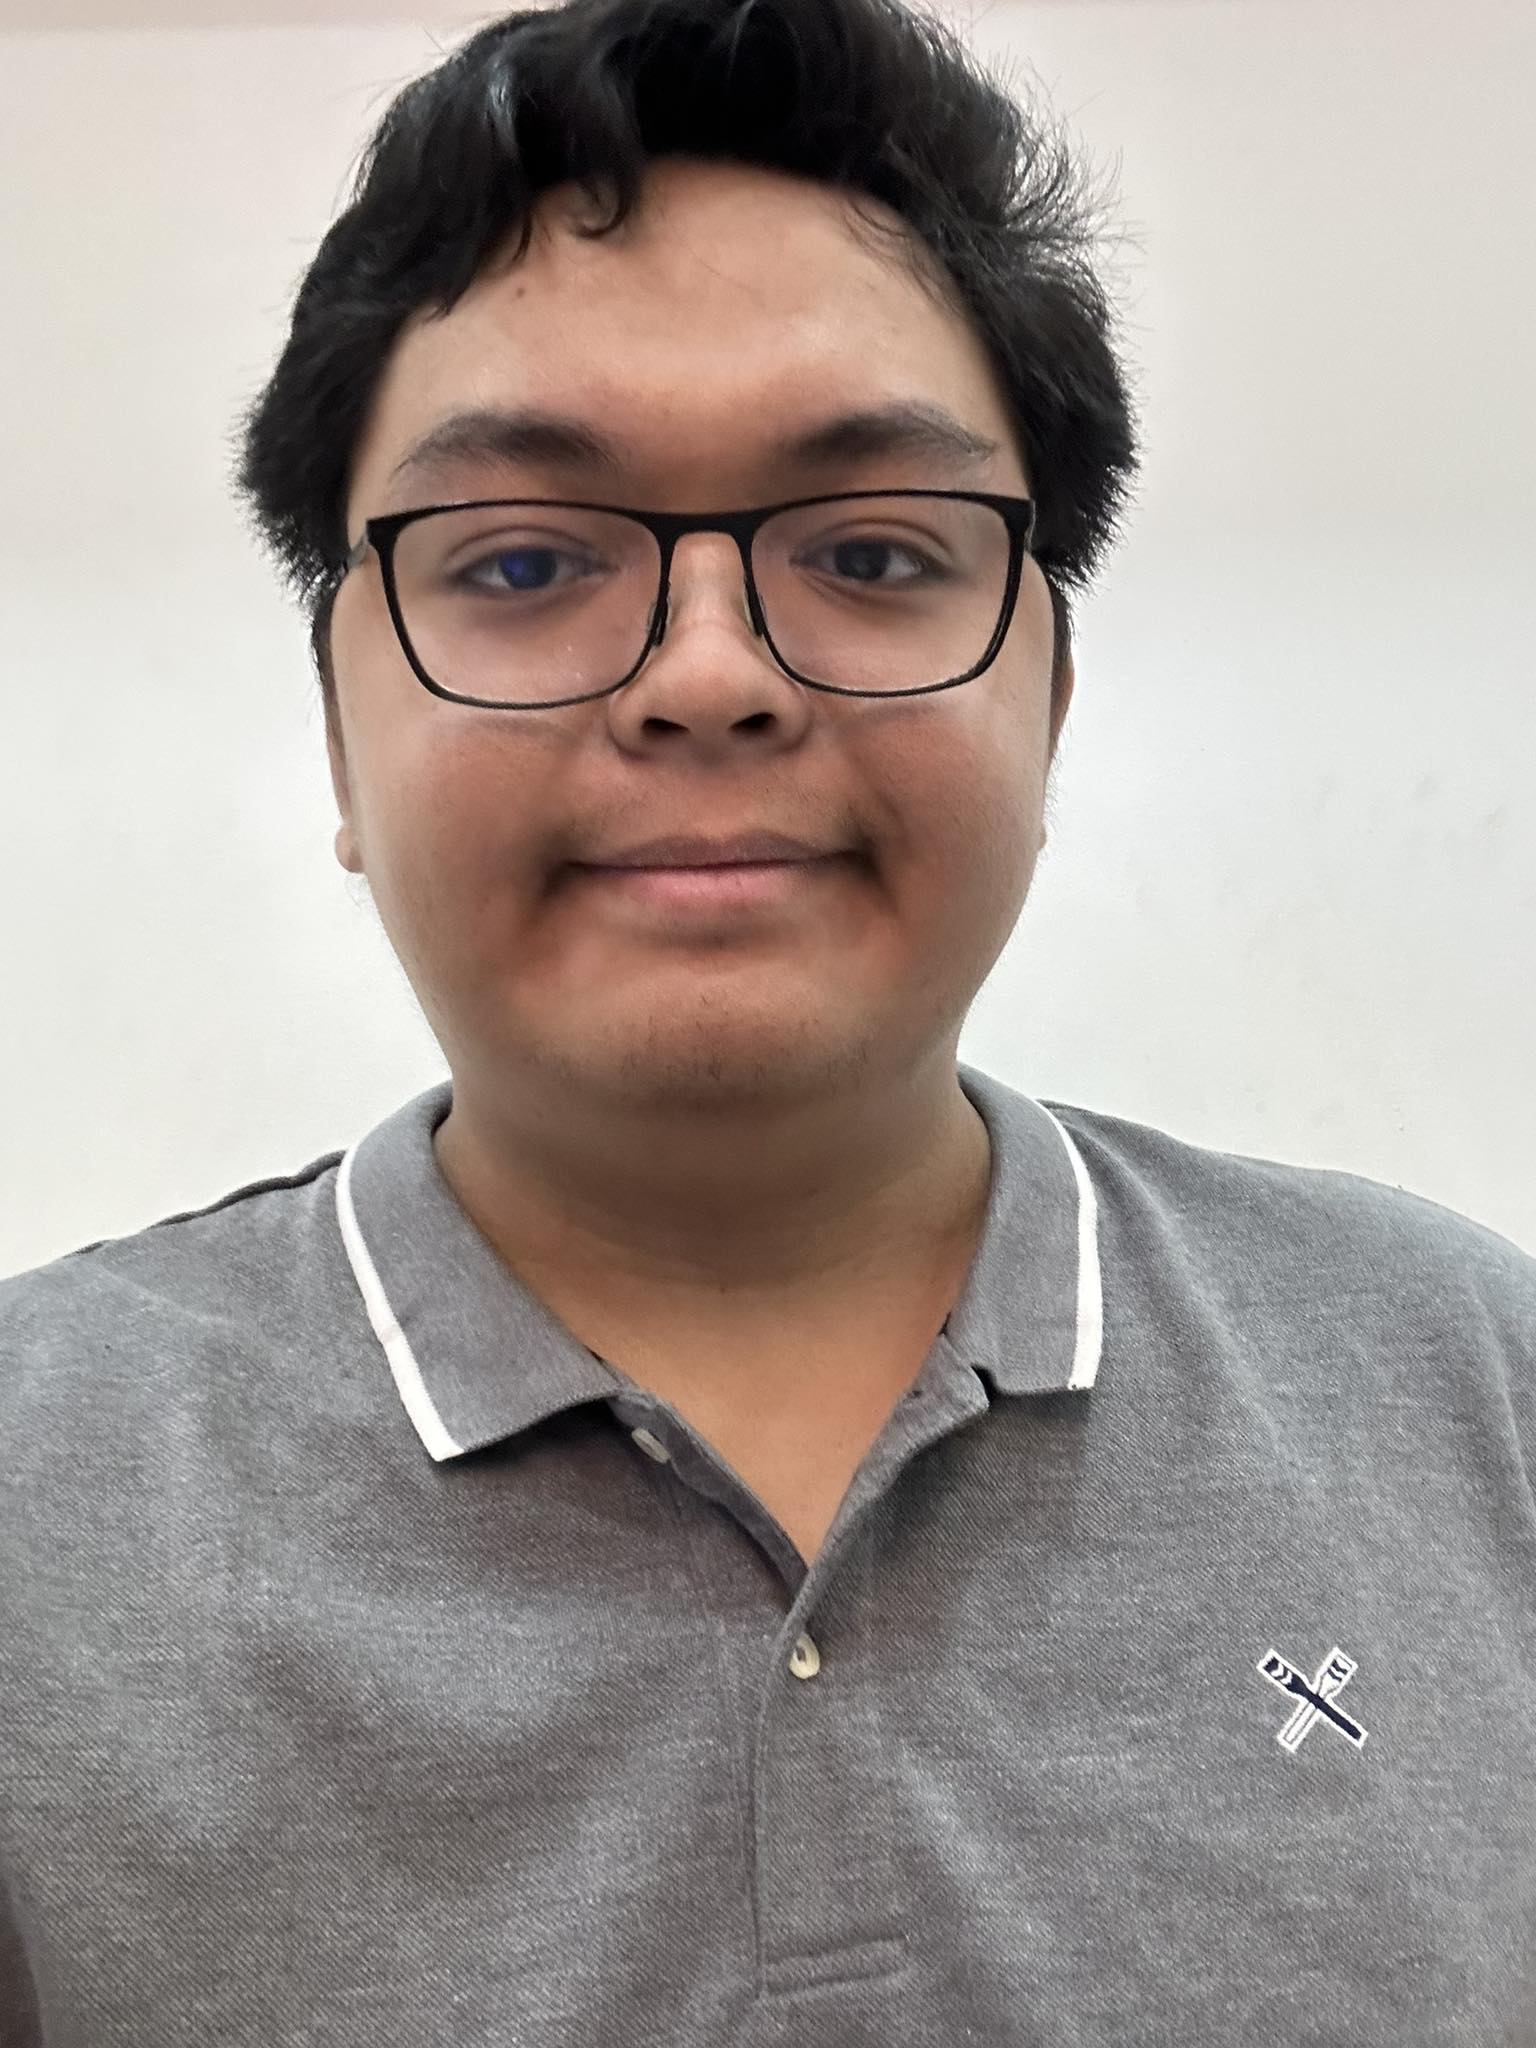
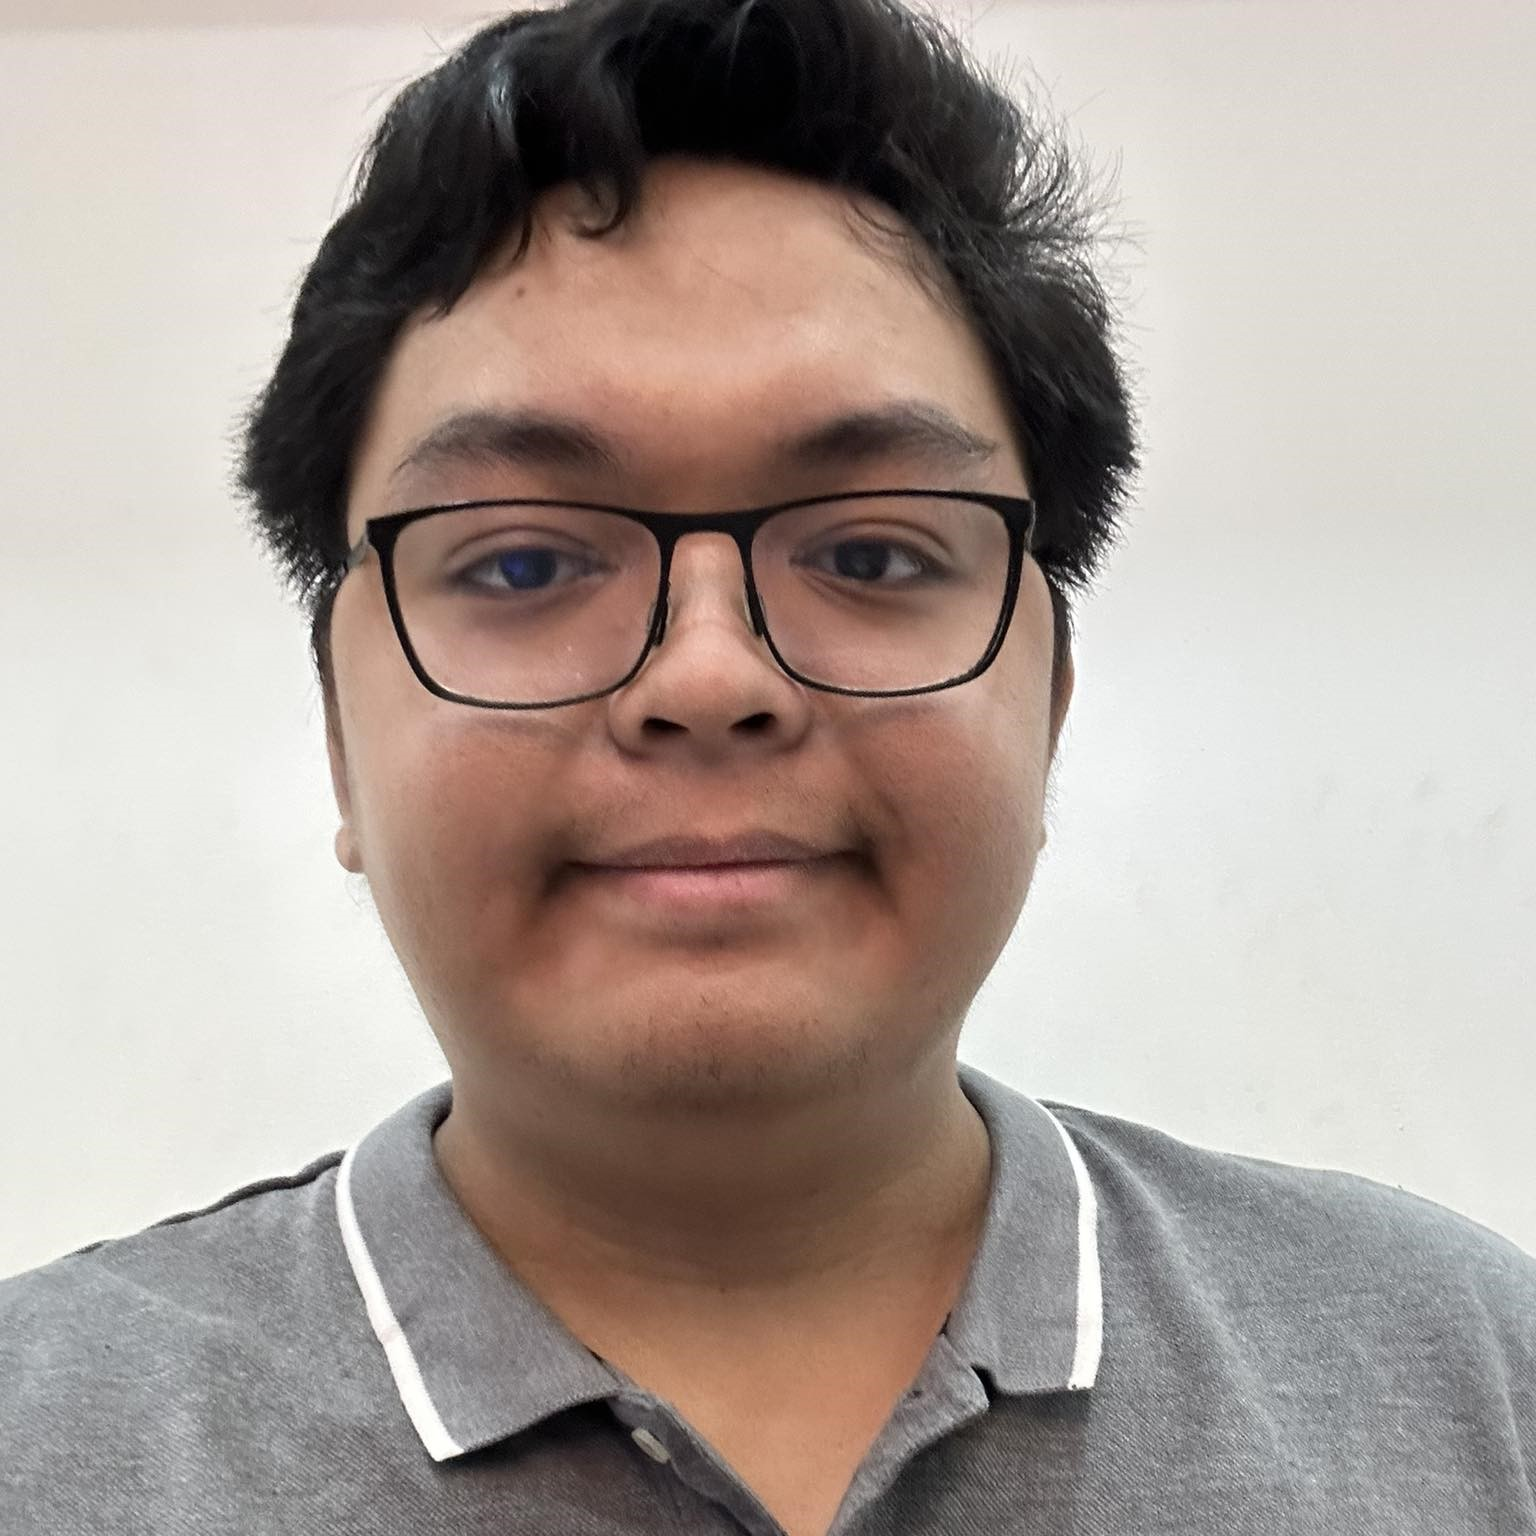
Better about us layout

diff --git a/assets/css/style.css b/assets/css/style.css
@@ -321,6 +321,11 @@ li {
   height: 100%;
 }
 
+.result-slide img{
+  width: 100%;
+  height: 100%;
+}
+
 .results-question {
   text-align: center;
   font-family: "sunflower_font", sans-serif;
@@ -420,7 +425,8 @@ li {
 
 .team-container {
   display: flex;
-  /* height: auto; */
+  align-items: center;
+  /* width: 100vw;/ */
 }
 
 .team-desc {
@@ -433,10 +439,12 @@ li {
 }
 
 .team-member {
-  /* outline: 10px solid #436850; */
+  display: flex;
+  flex-direction: column;
+  height: 400px;
   box-shadow: 0 10px 10px #436850;
   background-color: white;
-  width: 33%;
+  width: 30%;
   text-align: center;
   align-items: center;
   padding: 20px;
@@ -457,6 +465,11 @@ li {
   align-items: center;
   margin-inline: 15em;
 }
+
+/* .team-pic-container img{
+  width: 100%;
+  height: 100%; */
+/* } */
 
 .team-pic {
   border-radius: 15px;
